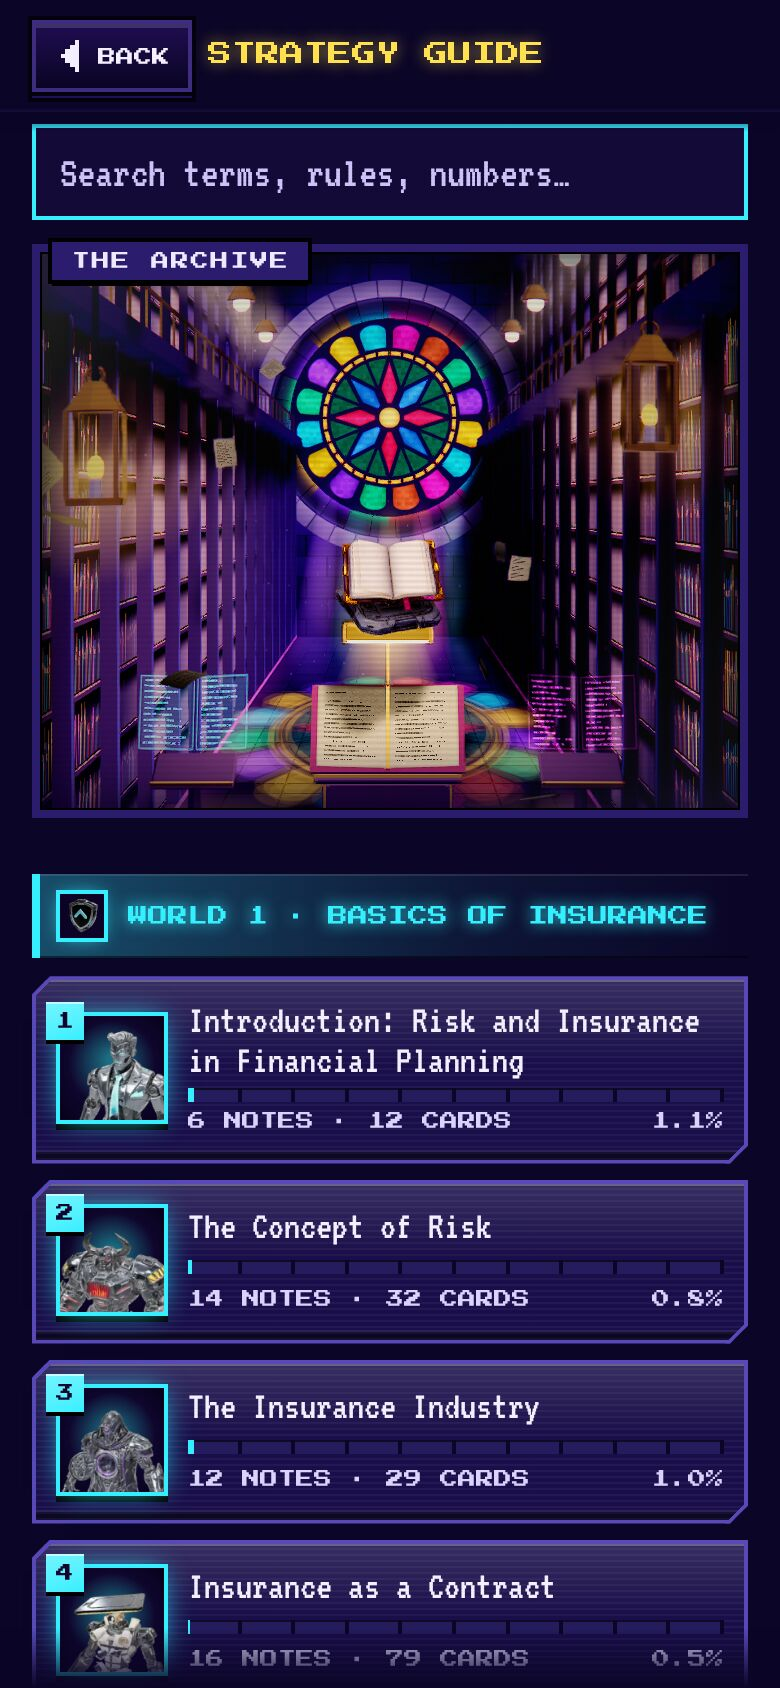
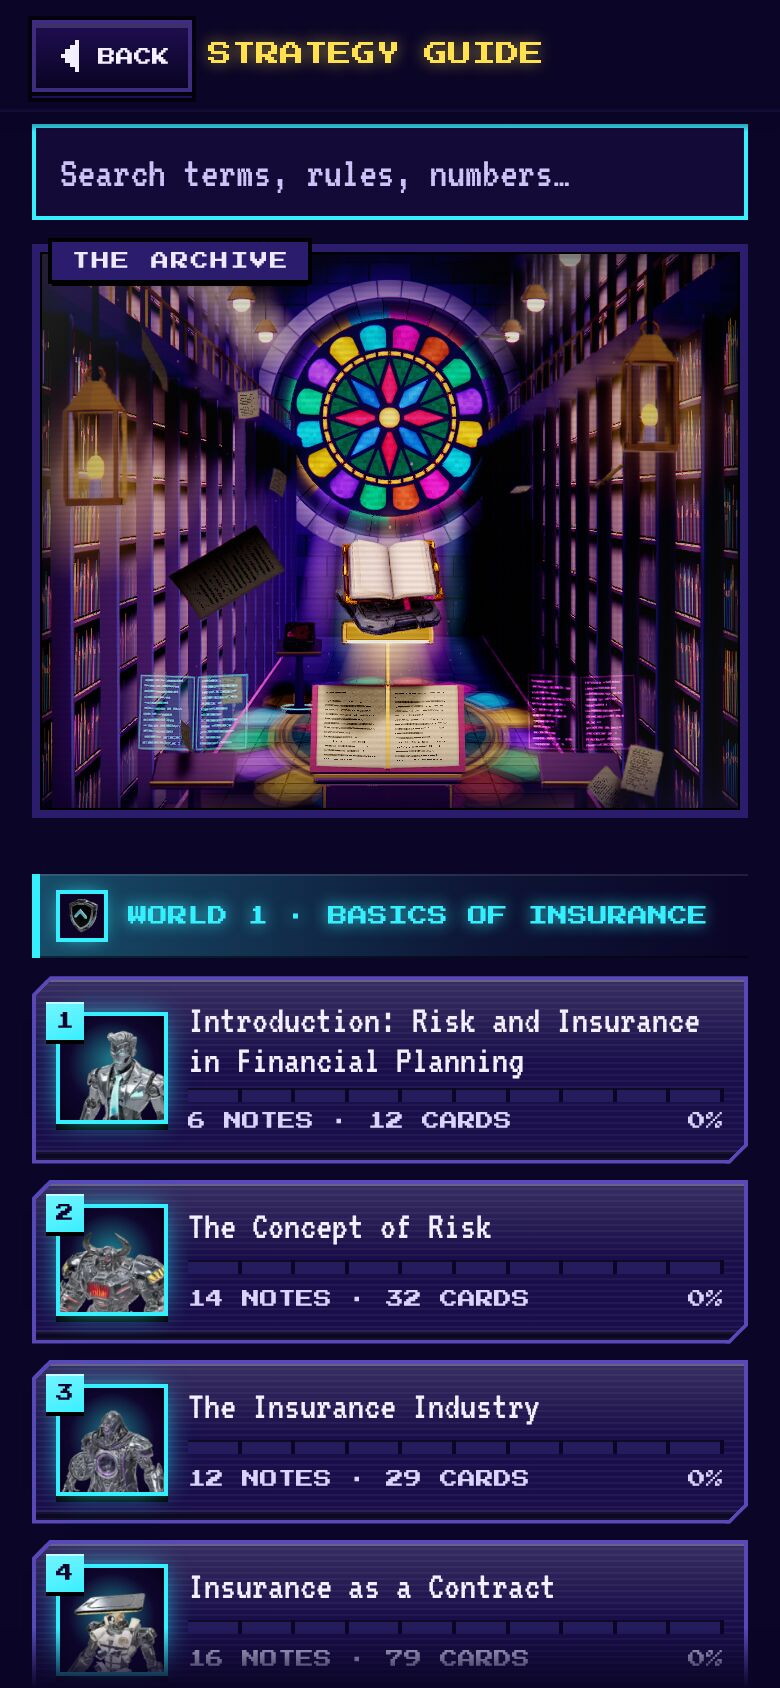
Strategy Guide: the first, darker tome closed on a third stand in the archive's background
decor-tome lies closed on a reading stand deeper in the nave, under the last pair of hanging lamps, left of the great
book: a stand like the two lecterns (built into the joinery batch, no draw of its own) with the cyan ring at its foot.
Only served, with the tome in hand and GFX.extras not false.

Claude-Session: https://claude.ai/code/session_01SXN4PWw2h7NprrScNwTTGU

diff --git a/arcade/src/js/31c-librarygen.js b/arcade/src/js/31c-librarygen.js
@@ -5,11 +5,14 @@
 //   the lamp's light, with a warm glow under it.
 // (the book: an open tome on a chrome stand, under the rose window and above the reading desk's lamp, its pages
 // tipped toward the lens; it sways a little instead of turning its back)
-const LIB_GEN = { TOME: { s: 1.35, y: 4.95, z: -23.6, rx: 0.5, swing: 0.28 }, SKY: { gain: 1.15, lift: 1.1, rot: 1.6 } };
+// (with the decor, GFX.extras: the first, darker tome, closed, lies on a third stand deeper in the nave, where the left
+// pair of lamps lets its light down; the stand is built with the archive's joinery: see LibraryScene)
+const LIB_GEN = { TOME: { s: 1.35, y: 4.95, z: -23.6, rx: 0.5, swing: 0.28 }, SKY: { gain: 1.15, lift: 1.1, rot: 1.6 },
+  STAND: [-3.0, -45.4], OLD: { s: 1.25, rx: -1.07, y: 2.266, dz: 0.56 } }; // (the book lies on the stand's slanted top, its foot on the brass ledge)
 function libraryGen(lib) {
   if (!Assets.on || !lib.has3D) return null;
-  const sky = Assets.sky("guide-archive"), tome = Assets.model("prop-tome");
-  if (!(sky && sky.map) && !tome) return null;
+  const sky = Assets.sky("guide-archive"), tome = Assets.model("prop-tome"), old = lib.tomeStand ? Assets.model("decor-tome") : null;
+  if (!(sky && sky.map) && !tome && !old) return null;
   const s = lib.scene, G = { t: 0 };
   if (sky && sky.map) {
     G.dome = makePanoSky(sky, LIB_GEN.SKY);
@@ -33,12 +36,22 @@ function libraryGen(lib) {
     G.glow.layers.set(1);
     s.add(G.glow);
   }
+  if (old) {
+    const [x, z] = LIB_GEN.STAND, O = LIB_GEN.OLD;
+    tuneModel(old, { env: 2.2, glow: 2 });
+    old.scene.scale.setScalar(O.s);
+    old.scene.rotation.x = O.rx;
+    old.scene.position.set(x, O.y, z + O.dz);
+    s.add(old.scene);
+    G.old = old;
+  }
   return G;
 }
 function libraryGenUpdate(lib, dt, lt) {
   const G = lib.gen;
   if (!G) return;
   if (G.dome) G.dome.userData.follow(lib.camera);
+  if (G.old) G.old.scene.visible = GFX.extras !== false;
   if (G.tome) {
     G.tome.rotation.y = Math.sin(lt * 0.3) * LIB_GEN.TOME.swing;
     G.tome.position.y = LIB_GEN.TOME.y + Math.sin(lt * 0.7) * 0.06;

diff --git a/arcade/src/js/31b-library.js b/arcade/src/js/31b-library.js
@@ -241,6 +241,17 @@ class LibraryScene extends Scene3D {
         ledgerPages.push(pg);
       });
     }
+    // served, with the decor: a third stand deeper in the nave, where the left pair of lamps lets its light down, for the
+    // first tome (decor-tome, closed: libraryGen lays it on the stand). Part of the joinery: no draw of its own.
+    if (Assets.on && GFX.extras !== false && Assets.fresh["model:decor-tome"]) {
+      const [x, z] = LIB_GEN.STAND;
+      put(racerPlate(0.9, 0.16, 0.9, 0.05, true), racerM(x, 0.08, z), DARK);
+      put(new THREE.CylinderGeometry(0.11, 0.2, 2.0, 6), racerM(x, 1.1, z), WOOD);
+      put(racerPlate(1.5, 0.1, 1.0, 0.04, true), racerM(x, 2.18, z, 1, 1, 1, 0.5), WOOD);
+      B.add(box, racerM(x, 2.03, z + 0.46, 1.5, 0.08, 0.05, 0.5), BRASS);
+      put(new THREE.TorusGeometry(0.62, 0.02, 4, 24), racerM(x, 0.18, z, 1, 1, 1, Math.PI / 2), 0x5fd8ff, G, 1.4);
+      this.tomeStand = true;
+    }
     this.joinery = new THREE.Mesh(B.build("color"), new THREE.MeshLambertMaterial({ vertexColors: true }));
     this.lights = new THREE.Mesh(G.build("color"), new THREE.MeshBasicMaterial({ vertexColors: true }));
     s.add(this.joinery, this.lights);
